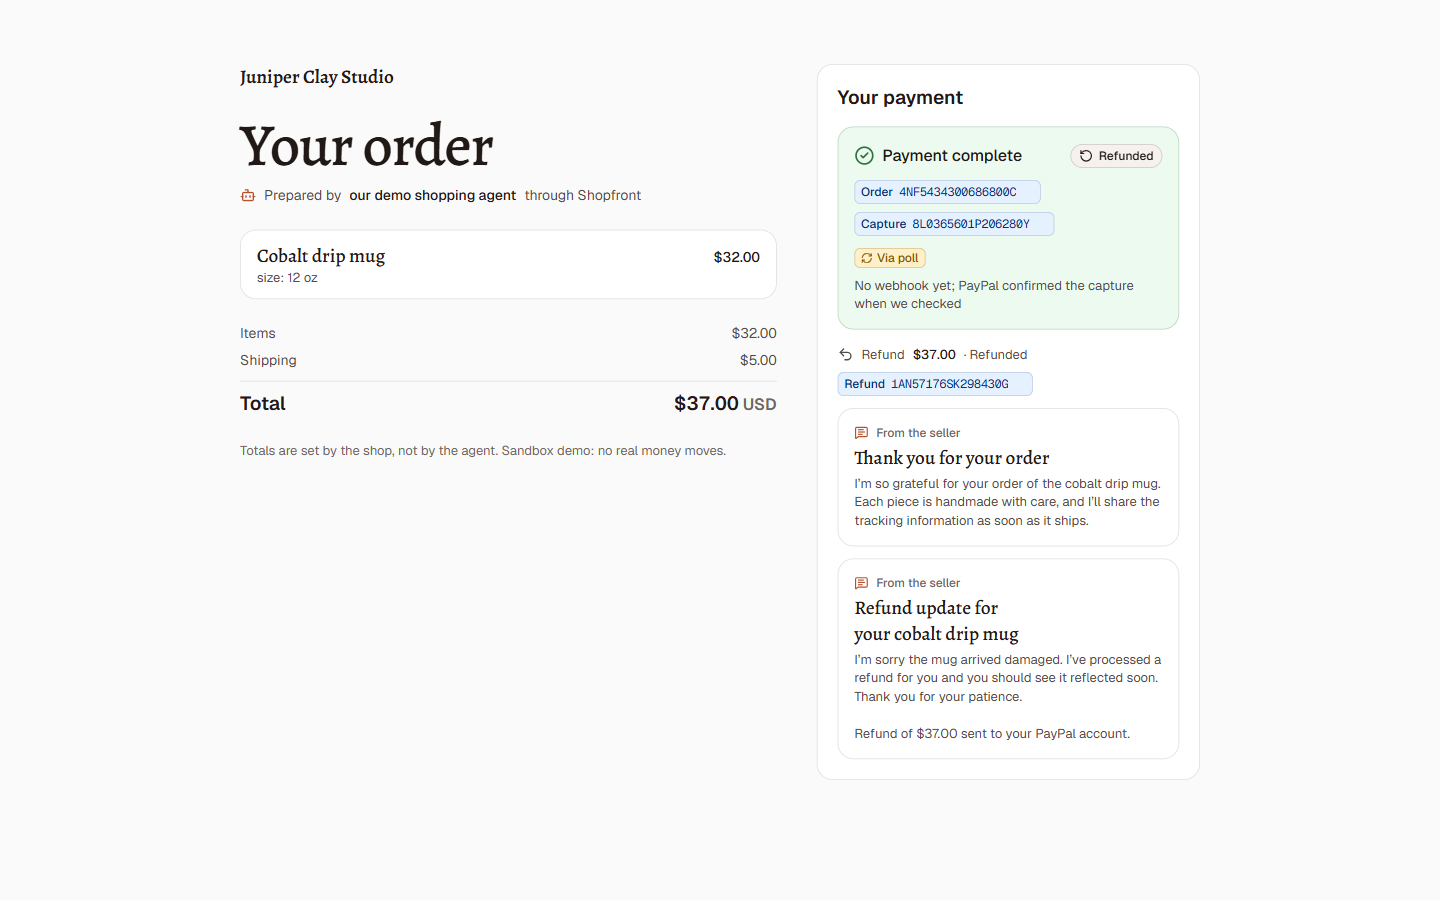
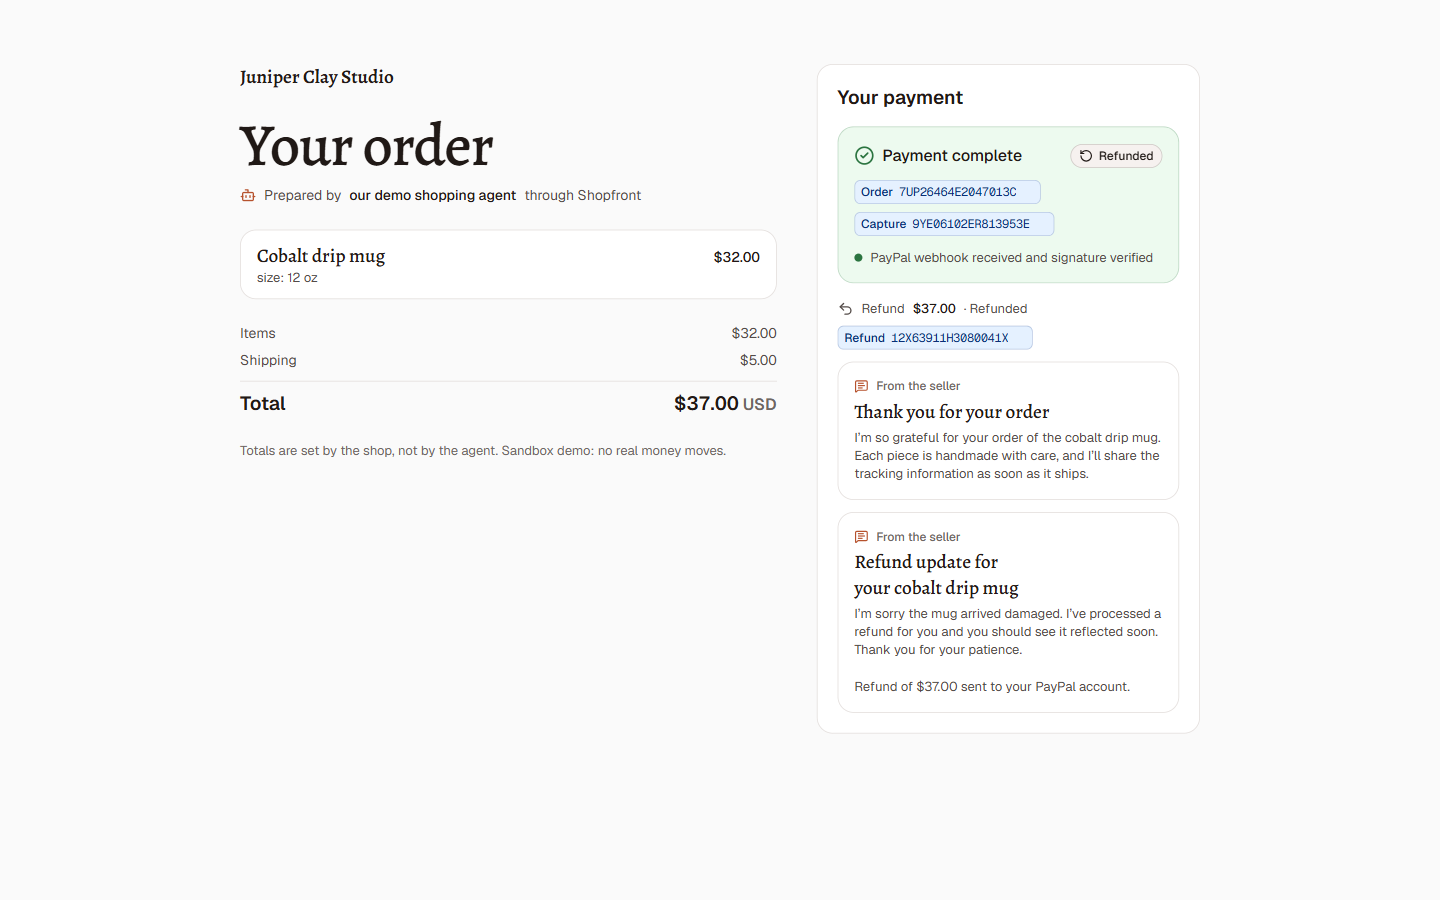
test(approval): 6/6 on Render after the popup fix (AP5 8/8 first clicks open PayPal); evidence screenshot; PROGRESS

Changed region(s): [[0.5625, 0.2489, 0.8125, 0.7778], [0.5938, 0.8089, 0.7812, 0.84], [0.625, 0.1867, 0.7188, 0.2489]]

diff --git a/apps/web/scripts/seed.ts b/apps/web/scripts/seed.ts
@@ -1,7 +1,14 @@
 // Demo catalog (idempotent upserts with fixed ids). Run: pnpm --filter web seed
 // Prices here are the seller-confirmed prices; agents can never change them (D-002).
+import { readFileSync } from "node:fs";
+import { join } from "node:path";
 import { RefundPolicy } from "@shopfront/core";
 import { closeDb, getDb, schema, sql } from "@shopfront/db";
+import { photoSha256, processPhoto } from "../src/lib/image-process";
+
+// Listing photos: public-domain museum photos (CC0), credited in seed-photos/CREDITS.md and the README (D-087).
+// The owner's own photos replace them for the live photo-to-store demo; this keeps every seeded listing real-looking.
+const PHOTOS = join(import.meta.dirname, "..", "seed-photos");
 
 const id = (prefix: string, body: string) => `${prefix}_${body.toLowerCase().replace(/[^a-z0-9]/g, "").padEnd(12, "0").slice(0, 12)}`;
 
@@ -45,6 +52,7 @@ const products: Array<{
   category: string;
   attributes: Record<string, string>;
   variants: Array<{ key: string; sku: string; options: Record<string, string>; priceCents: number; stock: number }>;
+  photos: string[];
 }> = [
   {
     id: id("prd", "speckledmug"),
@@ -57,6 +65,7 @@ const products: Array<{
       { key: "speckoat", sku: "JCS-MUG-OAT", options: { glaze: "Oat speckle" }, priceCents: 3400, stock: 6 },
       { key: "specksea", sku: "JCS-MUG-SEA", options: { glaze: "Sea glass blue" }, priceCents: 3600, stock: 4 },
     ],
+    photos: ["juniper-speckled-cup.jpg", "juniper-sea-glass-bowl-cup.jpg"],
   },
   {
     id: id("prd", "cobaltdrip"),
@@ -66,45 +75,70 @@ const products: Array<{
     category: "mugs",
     attributes: { material: "stoneware", color: "blue", capacity: "12 oz" },
     variants: [{ key: "cobalt12", sku: "JCS-MUG-COBALT", options: { size: "12 oz" }, priceCents: 3200, stock: 5 }],
+    photos: ["juniper-cobalt-drip.jpg"],
   },
   {
     id: id("prd", "ashbowl"),
     sellerId: sellers[0]!.id,
     title: "Ash-glaze serving bowl",
-    description: "Wide serving bowl with a wood-ash glaze that breaks green over the carved rim. About 11 inches across.",
+    description: "Wide, shallow serving bowl in a pale wood-ash glaze with a soft satin finish. About 11 inches across.",
     category: "bowls",
     attributes: { material: "stoneware", diameter: "11 in" },
     variants: [{ key: "ashbowl11", sku: "JCS-BOWL-ASH", options: { size: "11 in" }, priceCents: 9500, stock: 2 }],
+    photos: ["juniper-ash-bowl.jpg"],
   },
   {
     id: id("prd", "budvases"),
     sellerId: sellers[0]!.id,
     title: "Bud vase trio",
-    description: "Three small bud vases for single stems, sold as a set. Glazed inside so they hold water.",
+    description: "Three small bud vases for single stems, sold as a set: one pale celadon, two in copper-red glazes. Glazed inside so they hold water.",
     category: "vases",
     attributes: { material: "stoneware", pieces: "3" },
     variants: [
-      { key: "budwhite", sku: "JCS-VASE-WHITE", options: { glaze: "Chalk white" }, priceCents: 2800, stock: 8 },
-      { key: "budclay", sku: "JCS-VASE-CLAY", options: { glaze: "Bare clay" }, priceCents: 2800, stock: 8 },
+      { key: "budwhite", sku: "JCS-VASE-WHITE", options: { set: "Celadon + copper red" }, priceCents: 2800, stock: 8 },
+      { key: "budclay", sku: "JCS-VASE-CLAY", options: { set: "All copper red" }, priceCents: 2800, stock: 8 },
     ],
+    photos: ["juniper-bud-vase-trio.jpg"],
   },
   {
     id: id("prd", "indigonapkins"),
     sellerId: sellers[1]!.id,
     title: "Indigo linen napkins",
-    description: "Set of four linen napkins, hand-dyed in natural indigo. Softens with every wash.",
+    description: "Set of four linen napkins, hand-dyed in natural indigo with a woven white stripe. Softens with every wash.",
     category: "linens",
     attributes: { material: "linen", pieces: "4", color: "indigo blue" },
     variants: [{ key: "indigo4", sku: "FNL-NAPKIN-INDIGO", options: { set: "4 napkins" }, priceCents: 4200, stock: 10 }],
+    photos: ["fern-indigo-stripe.jpg"],
+  },
+  {
+    id: id("prd", "shiboritowel"),
+    sellerId: sellers[1]!.id,
+    title: "Shibori tea towel",
+    description: "Cotton-linen tea towel, folded and bound by hand before the indigo bath, so every grid is a little different.",
+    category: "linens",
+    attributes: { material: "cotton-linen", size: "18 × 28 in", color: "indigo blue" },
+    variants: [{ key: "shibori1", sku: "FNL-TOWEL-SHIBORI", options: { size: "18 × 28 in" }, priceCents: 2400, stock: 12 }],
+    photos: ["fern-shibori.jpg"],
+  },
+  {
+    id: id("prd", "blockrunner"),
+    sellerId: sellers[1]!.id,
+    title: "Block-print table runner",
+    description: "Linen table runner printed by hand with a carved wheat-sheaf block and dyed in indigo. 14 by 72 inches.",
+    category: "linens",
+    attributes: { material: "linen", size: "14 × 72 in", color: "indigo blue" },
+    variants: [{ key: "runner72", sku: "FNL-RUNNER-BLOCK", options: { size: "14 × 72 in" }, priceCents: 6400, stock: 5 }],
+    photos: ["fern-block-print.jpg"],
   },
   {
     id: id("prd", "judgemug"),
     sellerId: sellers[2]!.id,
-    title: "Practice speckled mug",
+    title: "Practice copper-red cup",
     description: "A demo listing in the judges' practice shop. Buy it from judge mode to see the order ping, tracking and refund flow.",
     category: "mugs",
     attributes: { material: "stoneware", capacity: "10 oz" },
-    variants: [{ key: "judgemug1", sku: "JDG-MUG-01", options: { glaze: "Oat speckle" }, priceCents: 3200, stock: 50 }],
+    variants: [{ key: "judgemug1", sku: "JDG-MUG-01", options: { glaze: "Copper red" }, priceCents: 3200, stock: 50 }],
+    photos: ["judge-copper-cup.jpg"],
   },
   {
     id: id("prd", "judgebowl"),
@@ -114,6 +148,7 @@ const products: Array<{
     category: "bowls",
     attributes: { material: "stoneware", diameter: "11 in" },
     variants: [{ key: "judgebowl1", sku: "JDG-BOWL-01", options: { size: "11 in" }, priceCents: 9000, stock: 50 }],
+    photos: ["judge-white-bowl.jpg"],
   },
 ];
 
@@ -133,7 +168,7 @@ async function main() {
       .onConflictDoUpdate({ target: schema.sellers.id, set: { displayName: s.displayName, bio: s.bio, flatShippingCents: s.flatShippingCents, testOnly: s.testOnly ?? false } });
   }
   for (const p of products.filter((p) => chosenIds.has(p.sellerId))) {
-    const { variants, ...prod } = p;
+    const { variants, photos, ...prod } = p;
     await db
       .insert(schema.products)
       .values({ ...prod, status: "approved", priceConfirmed: true, approvedAt: new Date(), fieldConfidence: {} })
@@ -143,6 +178,14 @@ async function main() {
         .insert(schema.variants)
         .values({ id: id("var", v.key), productId: p.id, sku: v.sku, options: v.options, priceCents: v.priceCents, stock: v.stock, active: true })
         .onConflictDoUpdate({ target: schema.variants.id, set: { priceCents: v.priceCents, stock: v.stock, active: true, options: v.options } });
+    }
+    // Photos go through the same pipeline as a seller's upload (sha256 identity, WebP, ≤ 1600 px).
+    for (const [position, file] of photos.entries()) {
+      const input = readFileSync(join(PHOTOS, file));
+      const sha256 = photoSha256(input);
+      const { data, info } = await processPhoto(input);
+      await db.insert(schema.images).values({ sha256, mime: "image/webp", width: info.width, height: info.height, bytes: data }).onConflictDoNothing();
+      await db.insert(schema.productImages).values({ productId: p.id, imageSha256: sha256, position }).onConflictDoUpdate({ target: [schema.productImages.productId, schema.productImages.imageSha256], set: { position } });
     }
   }
   const [{ n }] = (await db.execute<{ n: number }>(sql`select count(*)::int n from variants where active`)).rows as [{ n: number }];

diff --git a/docs/PROGRESS.md b/docs/PROGRESS.md
@@ -10,7 +10,7 @@ One 5-line report per item: done, tests, screenshots, risks, next. Newest last.
   - Render no longer redeploys on docs-only pushes (D-085).
 - **Tests:**
   - `approval-checks` on Render. AP1 popup via `/shop` paid; AP1b refund re-walk (PayPal refund `1AN57176SK298430G` COMPLETED); AP2 redirect approval paid through `/pay/return`; AP4 dead ends 404 and branded, no order shown, no mobile overflow.
-  - AP3 (redirect cancel) and AP5 (first-click reliability, 8 pages) are re-run on the fix deploy; results below.
+  - **On the fix deploy `06449ab`: 6/6.** AP1 popup on the first click; AP1b refund `12X63911H3080041X` COMPLETED; AP2 redirect; AP3 redirect cancel says nothing was charged and the checkout stays `created`; AP4 dead ends; **AP5 8 of 8 first clicks open PayPal**, and the escape link equals the order's `payer-action` link.
   - Unit tests: `paypal-presentation`.
 - **Screenshots:** `docs/screenshots/approval/`.
 - **Risks:** "auto" was PayPal's recommended mode. If the explicit popup is ever blocked, the redirect path carries the payment (proven by AP2).
